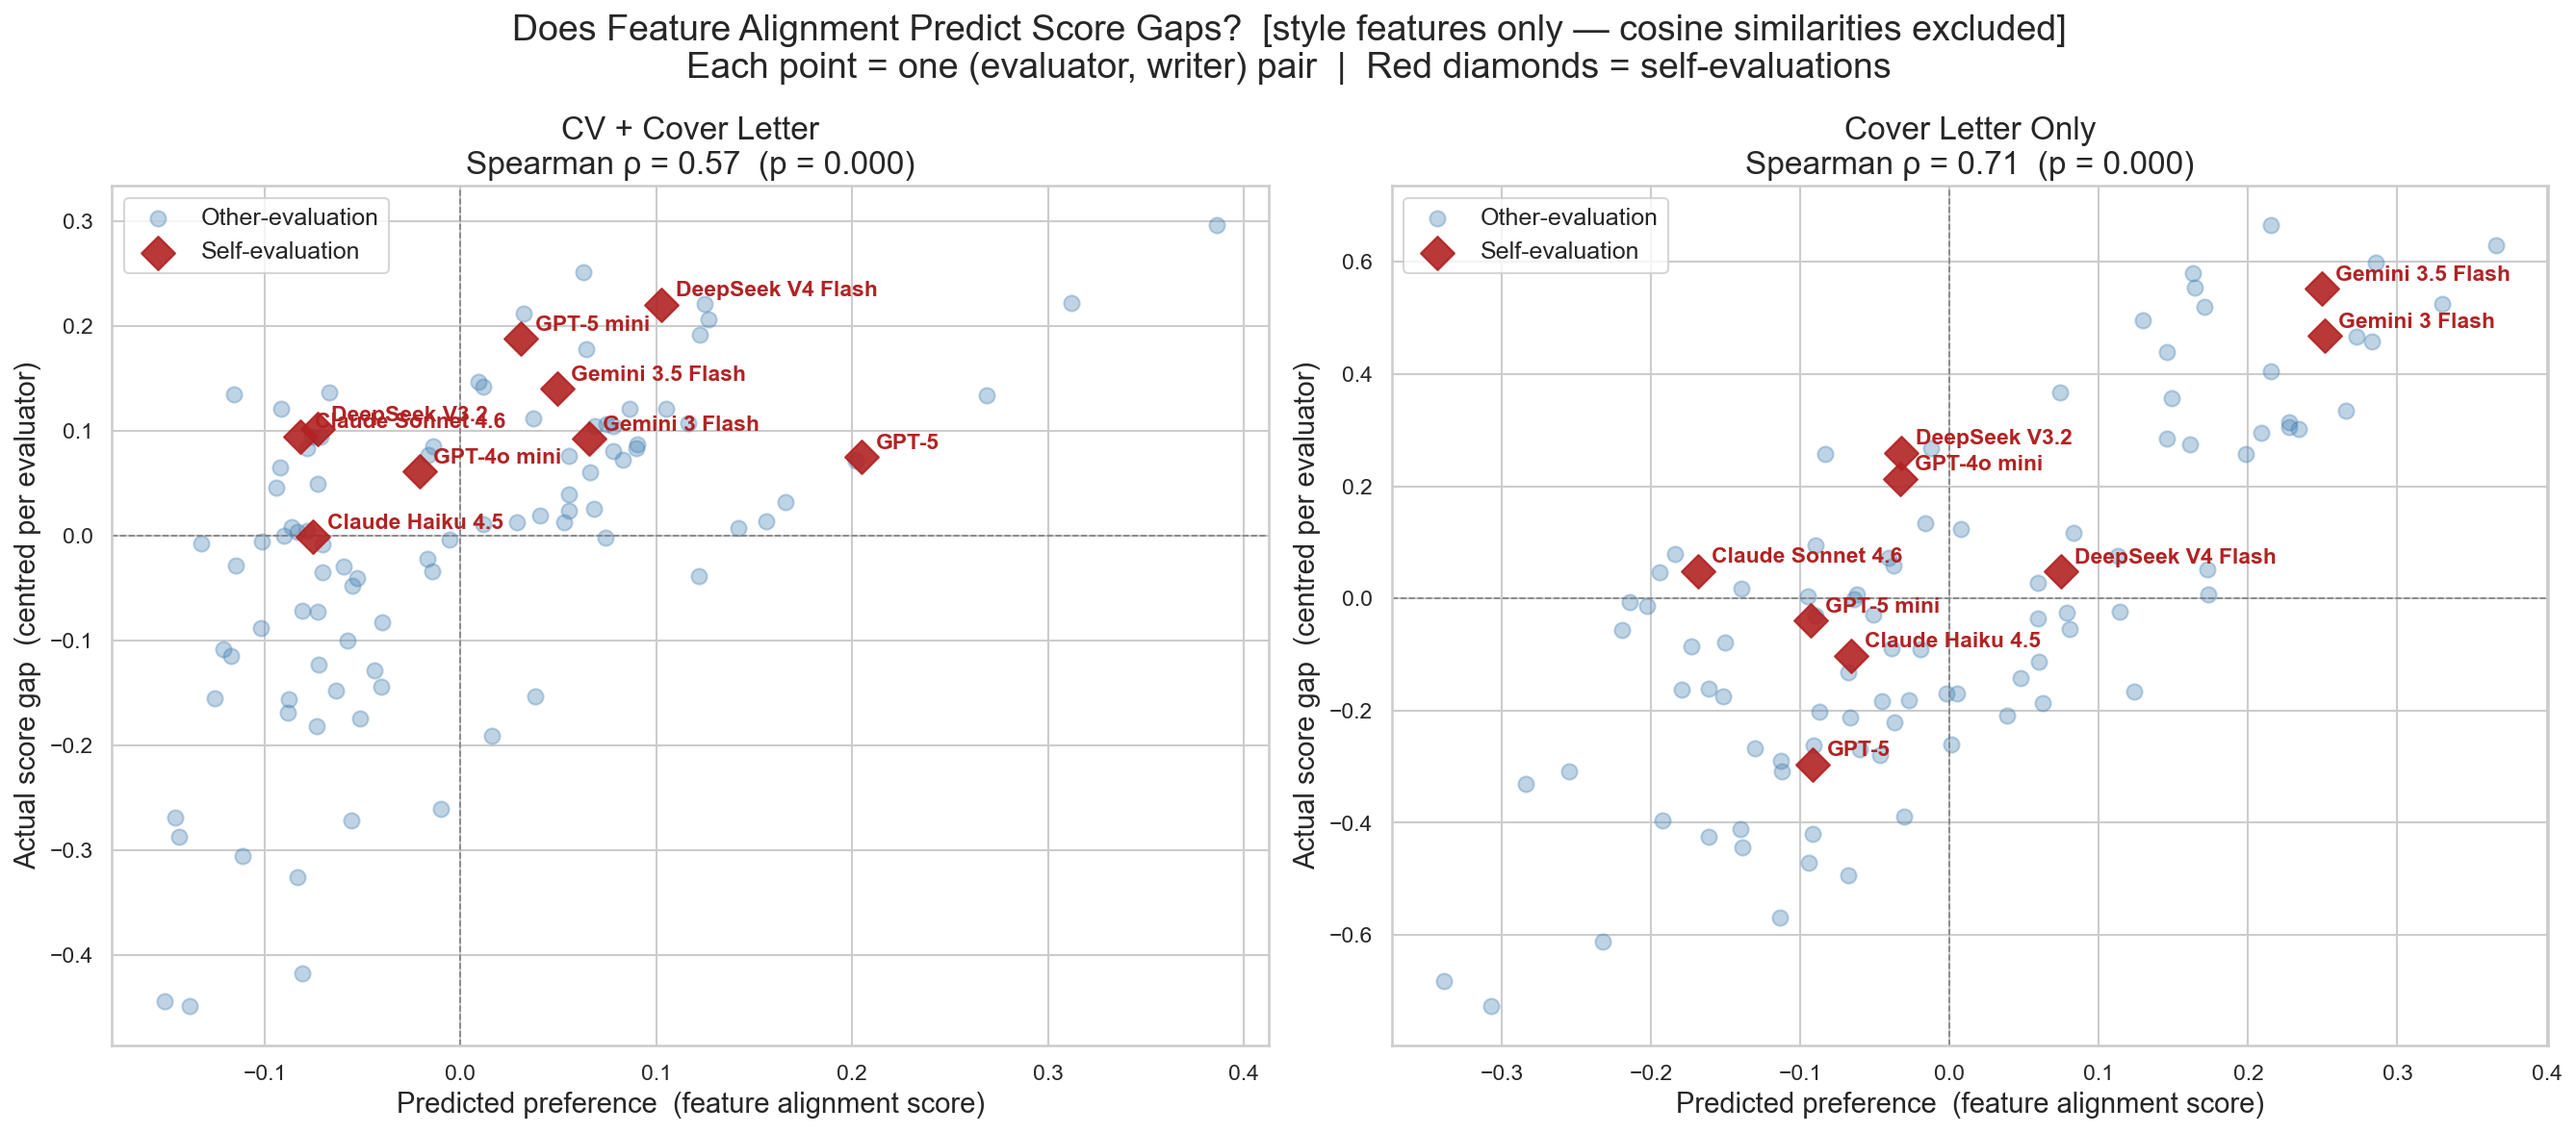
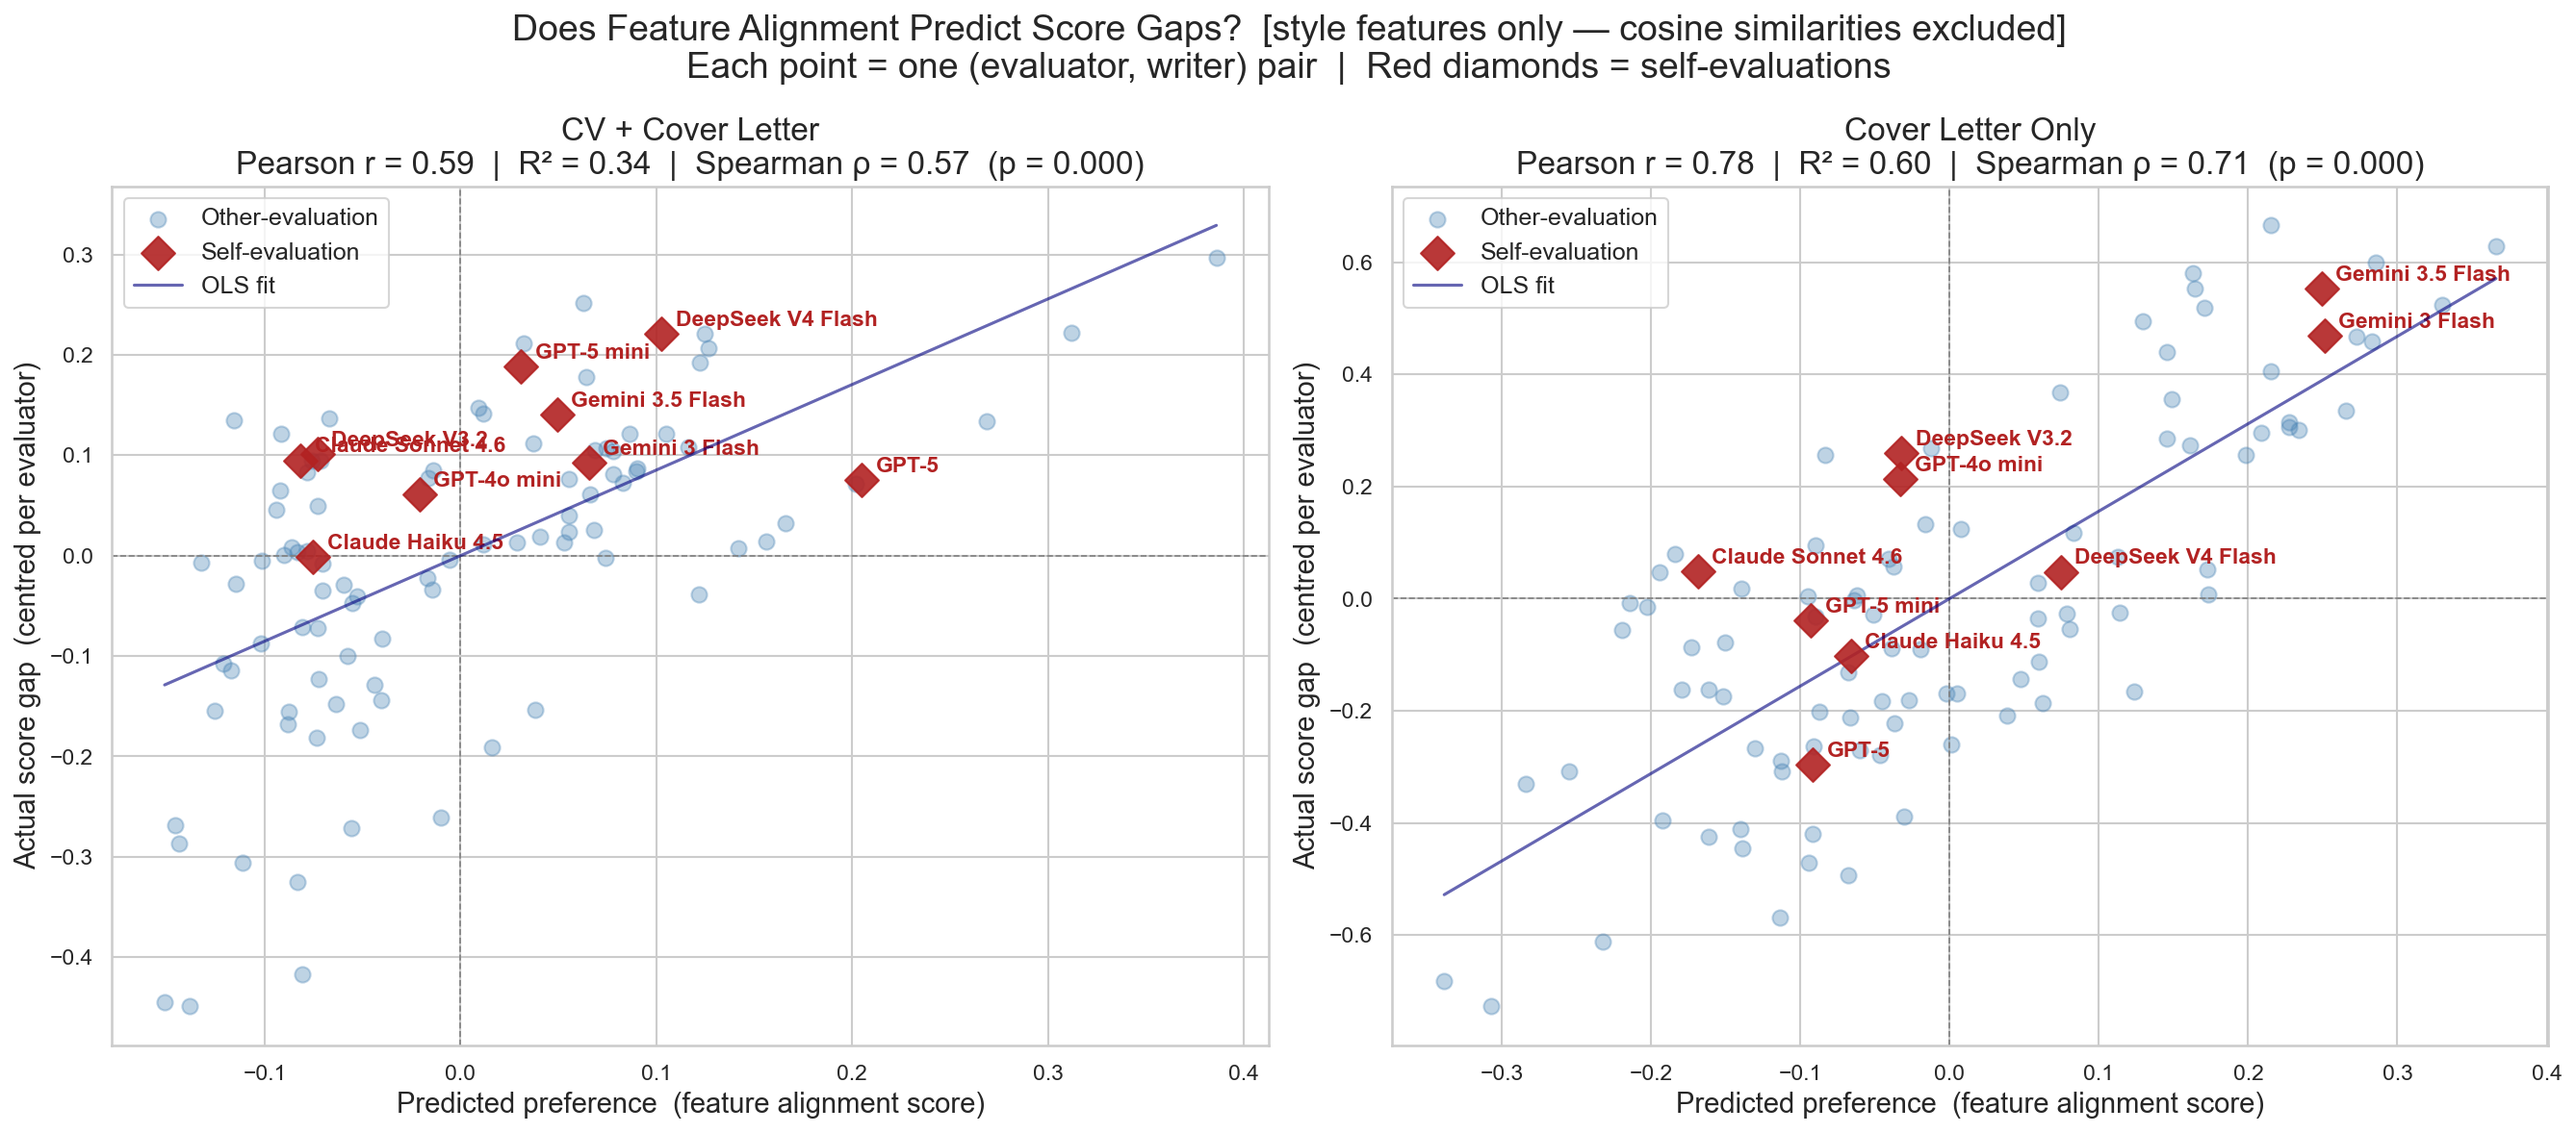
Add residual panel and OLS fit stats to feature regression plots
Preference matrices now show a third residual (actual - predicted)
panel per type, and scatter plots add a Pearson r / R^2 alongside
Spearman rho with an OLS fit line. Self-evaluation cells get a gold
fill in addition to the black border.

diff --git a/plot_feature_regression.py b/plot_feature_regression.py
@@ -178,12 +178,14 @@ def _color_yticklabels(ax):
 
 
 def _highlight_diagonal(ax, row_labels, col_labels):
-    """Black border on cells where row label == col label."""
+    """Gold fill + black border on cells where row label == col label."""
     for i, r in enumerate(row_labels):
         if r in col_labels:
             j = list(col_labels).index(r)
             ax.add_patch(plt.Rectangle((j, i), 1, 1,
-                                       fill=False, edgecolor="black", linewidth=2.5))
+                                       facecolor="gold", alpha=0.25, zorder=1))
+            ax.add_patch(plt.Rectangle((j, i), 1, 1,
+                                       fill=False, edgecolor="black", linewidth=2.5, zorder=2))
 
 
 # ── Plot 1: regression coefficient heatmap ───────────────────────────────────
@@ -277,7 +279,7 @@ def _draw_pref_panel(ax, mat, title):
 
 
 def plot_preference_matrices(pred_by_type, actual_by_type, suffix, title_note):
-    fig, axes = plt.subplots(2, 2, figsize=(28, 20))
+    fig, axes = plt.subplots(3, 2, figsize=(28, 30))
 
     writer_disp  = [MODEL_DISPLAY[w] for w in RAW_WRITERS]
     eval_disp    = [MODEL_DISPLAY[e] for e in UNIQUE_EVALUATORS]
@@ -289,18 +291,24 @@ def plot_preference_matrices(pred_by_type, actual_by_type, suffix, title_note):
         writers = [d for d in writer_disp  if d in pred.columns and d in actual.columns]
         evals   = [d for d in eval_disp    if d in pred.index   and d in actual.index]
 
-        _draw_pref_panel(axes[0, col], pred.loc[evals, writers],
-                         f"Predicted — {title}")
-        _draw_pref_panel(axes[1, col], actual.loc[evals, writers],
-                         f"Actual score gap — {title}")
+        pred_sub   = pred.loc[evals, writers]
+        actual_sub = actual.loc[evals, writers]
+        residual   = actual_sub - pred_sub
+
+        _draw_pref_panel(axes[0, col], pred_sub,   f"Predicted — {title}")
+        _draw_pref_panel(axes[1, col], actual_sub, f"Actual score gap — {title}")
+        _draw_pref_panel(axes[2, col], residual,   f"Residual (actual − predicted) — {title}")
 
     fig.suptitle(
         f"Predicted vs Actual Preference Matrix{title_note}\n"
         "Predicted = evaluator feature weights · writer feature profile  "
-        "| Actual = mean score, centred per evaluator\n"
-        "Black border = self-evaluation  (evaluator model == writer model)",
+        "| Actual = mean score, centred per evaluator  "
+        "| Residual = actual − predicted\n"
+        "Gold fill + black border = self-evaluation  |  "
+        "Red residual = actual preference exceeds feature prediction  |  "
+        "Blue residual = features over-predict preference",
         fontsize=fs + 5)
-    fig.tight_layout(rect=[0, 0, 1, 0.95])
+    fig.tight_layout(rect=[0, 0, 1, 0.96])
     out = os.path.join(OUT_DIR, f"predicted_preference_matrix{suffix}.png")
     fig.savefig(out, dpi=150, bbox_inches="tight")
     plt.close(fig)
@@ -343,9 +351,20 @@ def plot_scatter(pred_by_type, actual_by_type, suffix, title_note):
                         textcoords="offset points", xytext=(7, 4),
                         fontsize=fs - 1, color="firebrick", fontweight="bold")
 
-        rho, p = sst.spearmanr(df["pred"], df["actual"])
-        ax.set_title(f"{title}\nSpearman ρ = {rho:.2f}  (p = {p:.3f})",
-                     fontsize=fs + 4)
+        rho, p_sp  = sst.spearmanr(df["pred"], df["actual"])
+        r, _       = sst.pearsonr(df["pred"],  df["actual"])
+        r2         = r ** 2
+
+        # OLS fit line
+        m, b = np.polyfit(df["pred"], df["actual"], 1)
+        x_range = np.linspace(df["pred"].min(), df["pred"].max(), 200)
+        ax.plot(x_range, m * x_range + b, color="navy", linewidth=1.5,
+                linestyle="-", alpha=0.6, zorder=3, label="OLS fit")
+
+        ax.set_title(
+            f"{title}\n"
+            f"Pearson r = {r:.2f}  |  R² = {r2:.2f}  |  Spearman ρ = {rho:.2f}  (p = {p_sp:.3f})",
+            fontsize=fs + 4)
         ax.axhline(0, color="grey", linewidth=0.8, linestyle="--")
         ax.axvline(0, color="grey", linewidth=0.8, linestyle="--")
         ax.set_xlabel("Predicted preference  (feature alignment score)", fontsize=fs + 2)
